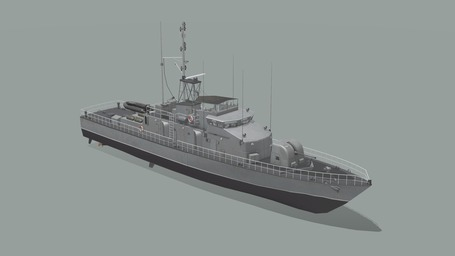
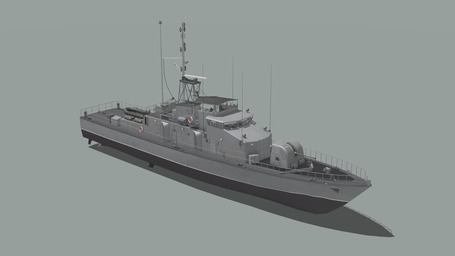
chore: update editorPreviews for new assets

diff --git a/Addons/ADF_Gear/adfrc_truckercap/config.cpp b/Addons/ADF_Gear/adfrc_truckercap/config.cpp
@@ -22,7 +22,7 @@ class CfgWeapons
 		author = "$STR_ADF_AUTHOR";
 		weaponPoolAvailable = 1;
 		displayName = "Trucker Cap";
-		picture = "\A3\characters_f\Data\UI\icon_H_Cap_red_CA.paa"; // placeholder until picgen icons exist
+		picture = "\ADF_Gear\adfrc_truckercap\icons\adfrc_truckercap_wdl_ca.paa";
 		model = "\ADF_Gear\adfrc_truckercap\adfrc_truckercap.p3d";
 		hiddenSelections[] = {"camo"};
 		hiddenSelectionsTextures[] = {"\ADF_Gear\adfrc_truckercap\data\adfrc_truckercap_wdl_co.paa"};
@@ -37,36 +37,42 @@ class CfgWeapons
 	};
 	class adfrc_truckercap_wdl: adfrc_truckercap_base
 	{
+		picture = "\ADF_Gear\adfrc_truckercap\icons\adfrc_truckercap_wdl_ca.paa";
 		scope = 2;
 		displayName = "Trucker Cap [Woodland]";
 		hiddenSelectionsTextures[] = {"\ADF_Gear\adfrc_truckercap\data\adfrc_truckercap_wdl_co.paa"};
 	};
 	class adfrc_truckercap_amcu: adfrc_truckercap_base
 	{
+		picture = "\ADF_Gear\adfrc_truckercap\icons\adfrc_truckercap_amcu_ca.paa";
 		scope = 2;
 		displayName = "Trucker Cap [AMCU]";
 		hiddenSelectionsTextures[] = {"\ADF_Gear\adfrc_truckercap\data\adfrc_truckercap_amcu_co.paa"};
 	};
 	class adfrc_truckercap_mmp: adfrc_truckercap_base
 	{
+		picture = "\ADF_Gear\adfrc_truckercap\icons\adfrc_truckercap_mmp_ca.paa";
 		scope = 2;
 		displayName = "Trucker Cap [MMP]";
 		hiddenSelectionsTextures[] = {"\ADF_Gear\adfrc_truckercap\data\adfrc_truckercap_mmp_co.paa"};
 	};
 	class adfrc_truckercap_tan: adfrc_truckercap_base
 	{
+		picture = "\ADF_Gear\adfrc_truckercap\icons\adfrc_truckercap_tan_ca.paa";
 		scope = 2;
 		displayName = "Trucker Cap [Tan]";
 		hiddenSelectionsTextures[] = {"\ADF_Gear\adfrc_truckercap\data\adfrc_truckercap_tan_co.paa"};
 	};
 	class adfrc_truckercap_blk: adfrc_truckercap_base
 	{
+		picture = "\ADF_Gear\adfrc_truckercap\icons\adfrc_truckercap_blk_ca.paa";
 		scope = 2;
 		displayName = "Trucker Cap [Black]";
 		hiddenSelectionsTextures[] = {"\ADF_Gear\adfrc_truckercap\data\adfrc_truckercap_blk_co.paa"};
 	};
 	class adfrc_truckercap_grn: adfrc_truckercap_base
 	{
+		picture = "\ADF_Gear\adfrc_truckercap\icons\adfrc_truckercap_grn_ca.paa";
 		scope = 2;
 		displayName = "Trucker Cap [Green]";
 		hiddenSelectionsTextures[] = {"\ADF_Gear\adfrc_truckercap\data\adfrc_truckercap_grn_co.paa"};

diff --git a/Addons/ADF_Units/Modern/RAN/Crew.hpp b/Addons/ADF_Units/Modern/RAN/Crew.hpp
@@ -78,6 +78,7 @@
 
 	////////////////////////RAN Boarding Party (MMP)//////////////////////////////////////////////
 	class ADFRC_MD_RAN_BoardingOfficer: ADFRC_MD_AMCU_Soldier_Base{
+		editorPreview = "\ADF_Units\Modern\RAN\data\editorPreviews\ADFRC_MD_RAN_BoardingOfficer.jpg";
 		displayName="Boarding Officer";
 		author="$STR_ADF_AUTHOR";
 		scope=2;
@@ -170,6 +171,7 @@
 	};
 
 	class ADFRC_MD_RAN_BoardingRifleman: ADFRC_MD_AMCU_Soldier_Base{
+		editorPreview = "\ADF_Units\Modern\RAN\data\editorPreviews\ADFRC_MD_RAN_BoardingRifleman.jpg";
 		displayName="Boarding Party Member";
 		author="$STR_ADF_AUTHOR";
 		scope=2;
@@ -258,6 +260,7 @@
 	};
 
 	class ADFRC_MD_RAN_BoardingMedic: ADFRC_MD_AMCU_Soldier_Base{
+		editorPreview = "\ADF_Units\Modern\RAN\data\editorPreviews\ADFRC_MD_RAN_BoardingMedic.jpg";
 		displayName="Boarding Party Medic";
 		author="$STR_ADF_AUTHOR";
 		scope=2;
@@ -343,6 +346,7 @@
 	};
 
 	class ADFRC_MD_RAN_BoardingMG: ADFRC_MD_AMCU_Soldier_Base{
+		editorPreview = "\ADF_Units\Modern\RAN\data\editorPreviews\ADFRC_MD_RAN_BoardingMG.jpg";
 		displayName="Boarding Party Gunner";
 		author="$STR_ADF_AUTHOR";
 		scope=2;
@@ -418,6 +422,7 @@
 	};
 
 	class ADFRC_MD_RAN_DeckGunner: ADFRC_MD_AMCU_Soldier_Rolled_Base{
+		editorPreview = "\ADF_Units\Modern\RAN\data\editorPreviews\ADFRC_MD_RAN_DeckGunner.jpg";
 		displayName="Upper Deck Gunner";
 		author="$STR_ADF_AUTHOR";
 		scope=2;
@@ -485,6 +490,7 @@
 	};
 	// Officer of the Watch: Field Dress (MMP). Default bridge crew for the Arafura and Fremantle.
 	class ADFRC_MD_RAN_OOW: ADFRC_MD_AMCU_Officer_Base{
+		editorPreview = "\ADF_Units\Modern\RAN\data\editorPreviews\ADFRC_MD_RAN_OOW.jpg";
 		displayName="Officer of the Watch";
 		author="$STR_ADF_AUTHOR";
 		scope=2;

diff --git a/Addons/ADF_Boat/adfrc_rhib/config.cpp b/Addons/ADF_Boat/adfrc_rhib/config.cpp
@@ -67,6 +67,7 @@ class CfgVehicles
 	// Rigid hull inflatable boat, unarmed: driver plus 10 on the jockey seats.
 	class adfrc_rhib: Boat_F
 	{
+		editorPreview = "\ADF_Boat\adfrc_rhib\data\editorPreviews\adfrc_rhib.jpg";
 		author = "ADFRC";
 		displayName = "RHIB";
 		model = "\ADF_Boat\adfrc_rhib\adfrc_rhib.p3d";

diff --git a/Addons/ADF_Tracked/adfrc_abrams/CfgDigVehicles.hpp b/Addons/ADF_Tracked/adfrc_abrams/CfgDigVehicles.hpp
@@ -12,6 +12,5 @@ class CfgDigVehicles
     };
     class adfrc_m1a1aim_md:    adfrc_abrams {};
     class adfrc_m1a1aim_gwot:  adfrc_abrams {};
-    editorPreview = "\ADF_Tracked\adfrc_abrams\data\editorPreviews\adfrc_m1a1aim_gwot.jpg";
     class adfrc_m1a2sepv3_md:  adfrc_abrams {};
 };

diff --git a/Addons/ADF_Boat/adfrc_fremantle/config.cpp b/Addons/ADF_Boat/adfrc_fremantle/config.cpp
@@ -1176,6 +1176,7 @@ class CfgVehicles
 	};
 	class adfrc_fremantle: adfrc_fremantle_base
 	{
+		editorPreview = "\ADF_Boat\adfrc_fremantle\data\editorPreviews\adfrc_fremantle.jpg";
 		author = "ADFRC";
 		displayName = "Fremantle-class Patrol Boat";
 		scope = 2;

diff --git a/Addons/ADF_Boat/adfrc_arafura/config.cpp b/Addons/ADF_Boat/adfrc_arafura/config.cpp
@@ -1131,6 +1131,7 @@ class CfgVehicles
 	};
 	class adfrc_arafura: adfrc_arafura_base
 	{
+		editorPreview = "\ADF_Boat\adfrc_arafura\data\editorPreviews\adfrc_arafura.jpg";
 		author = "ADFRC";
 		displayName = "Arafura-class OPV";
 		scope = 2;

diff --git a/Addons/ADF_Tracked/adfrc_abrams/config.cpp b/Addons/ADF_Tracked/adfrc_abrams/config.cpp
@@ -3219,6 +3219,7 @@ class CfgVehicles
 	};
 	class adfrc_m1a1aim_gwot: adfrc_m1a1aim_md
 	{
+		editorPreview = "\ADF_Tracked\adfrc_abrams\data\editorPreviews\adfrc_m1a1aim_gwot.jpg";
 		faction="ADFRC_F_GWOT";
 		crew="ADFRC_crewman_dpcu";
 	};
